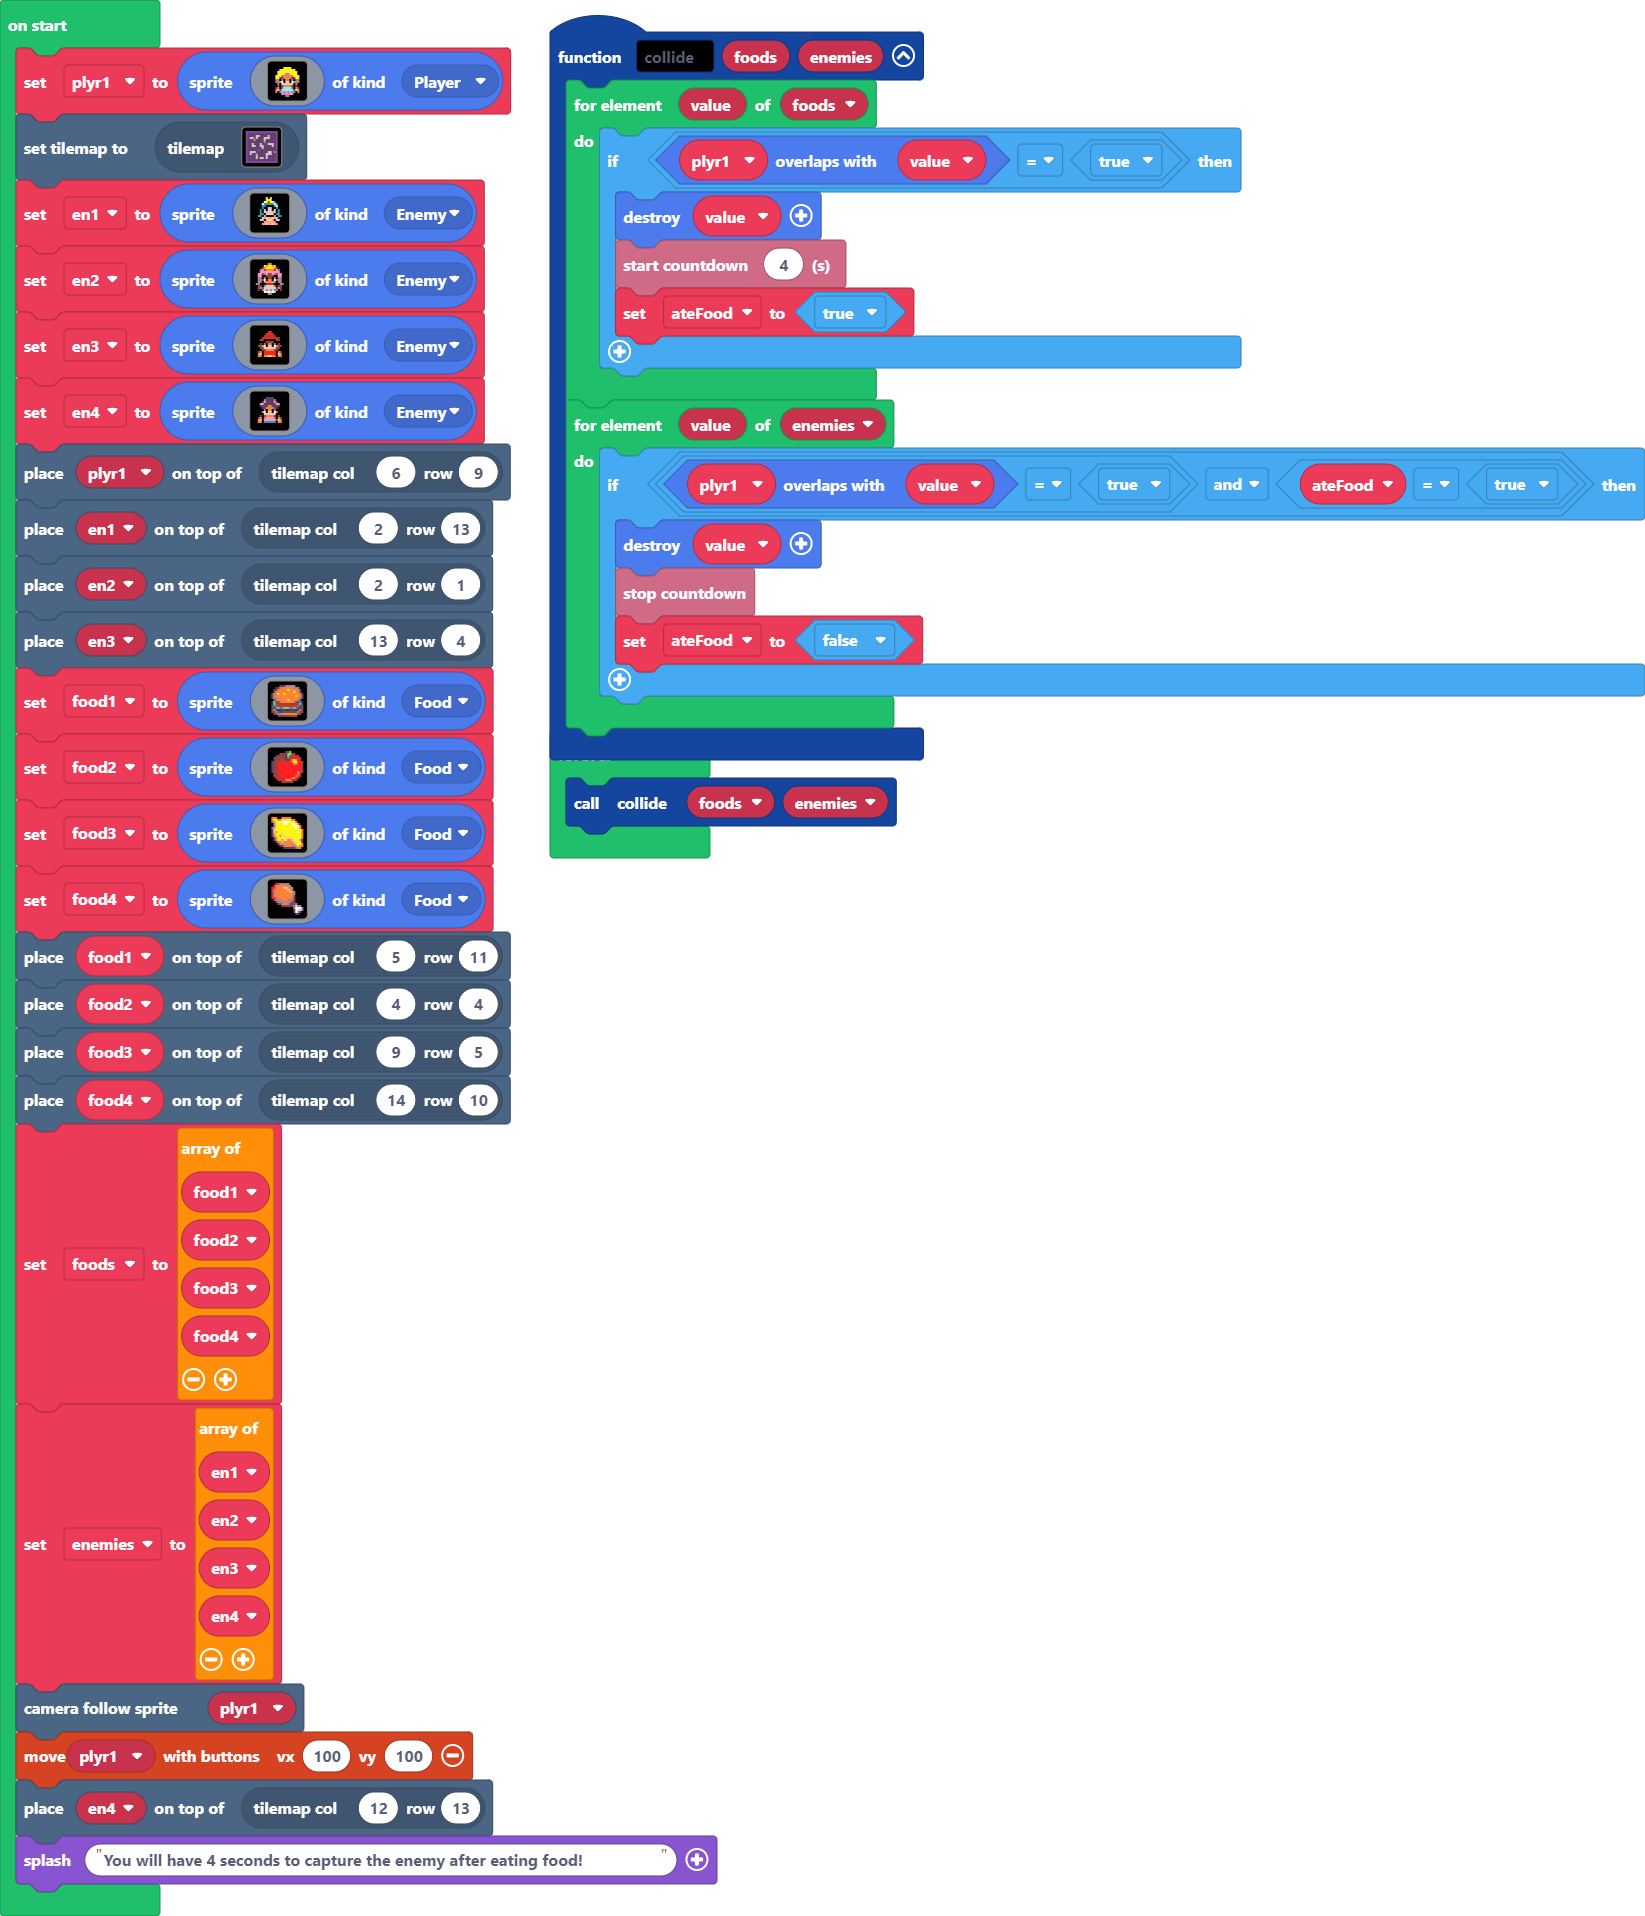
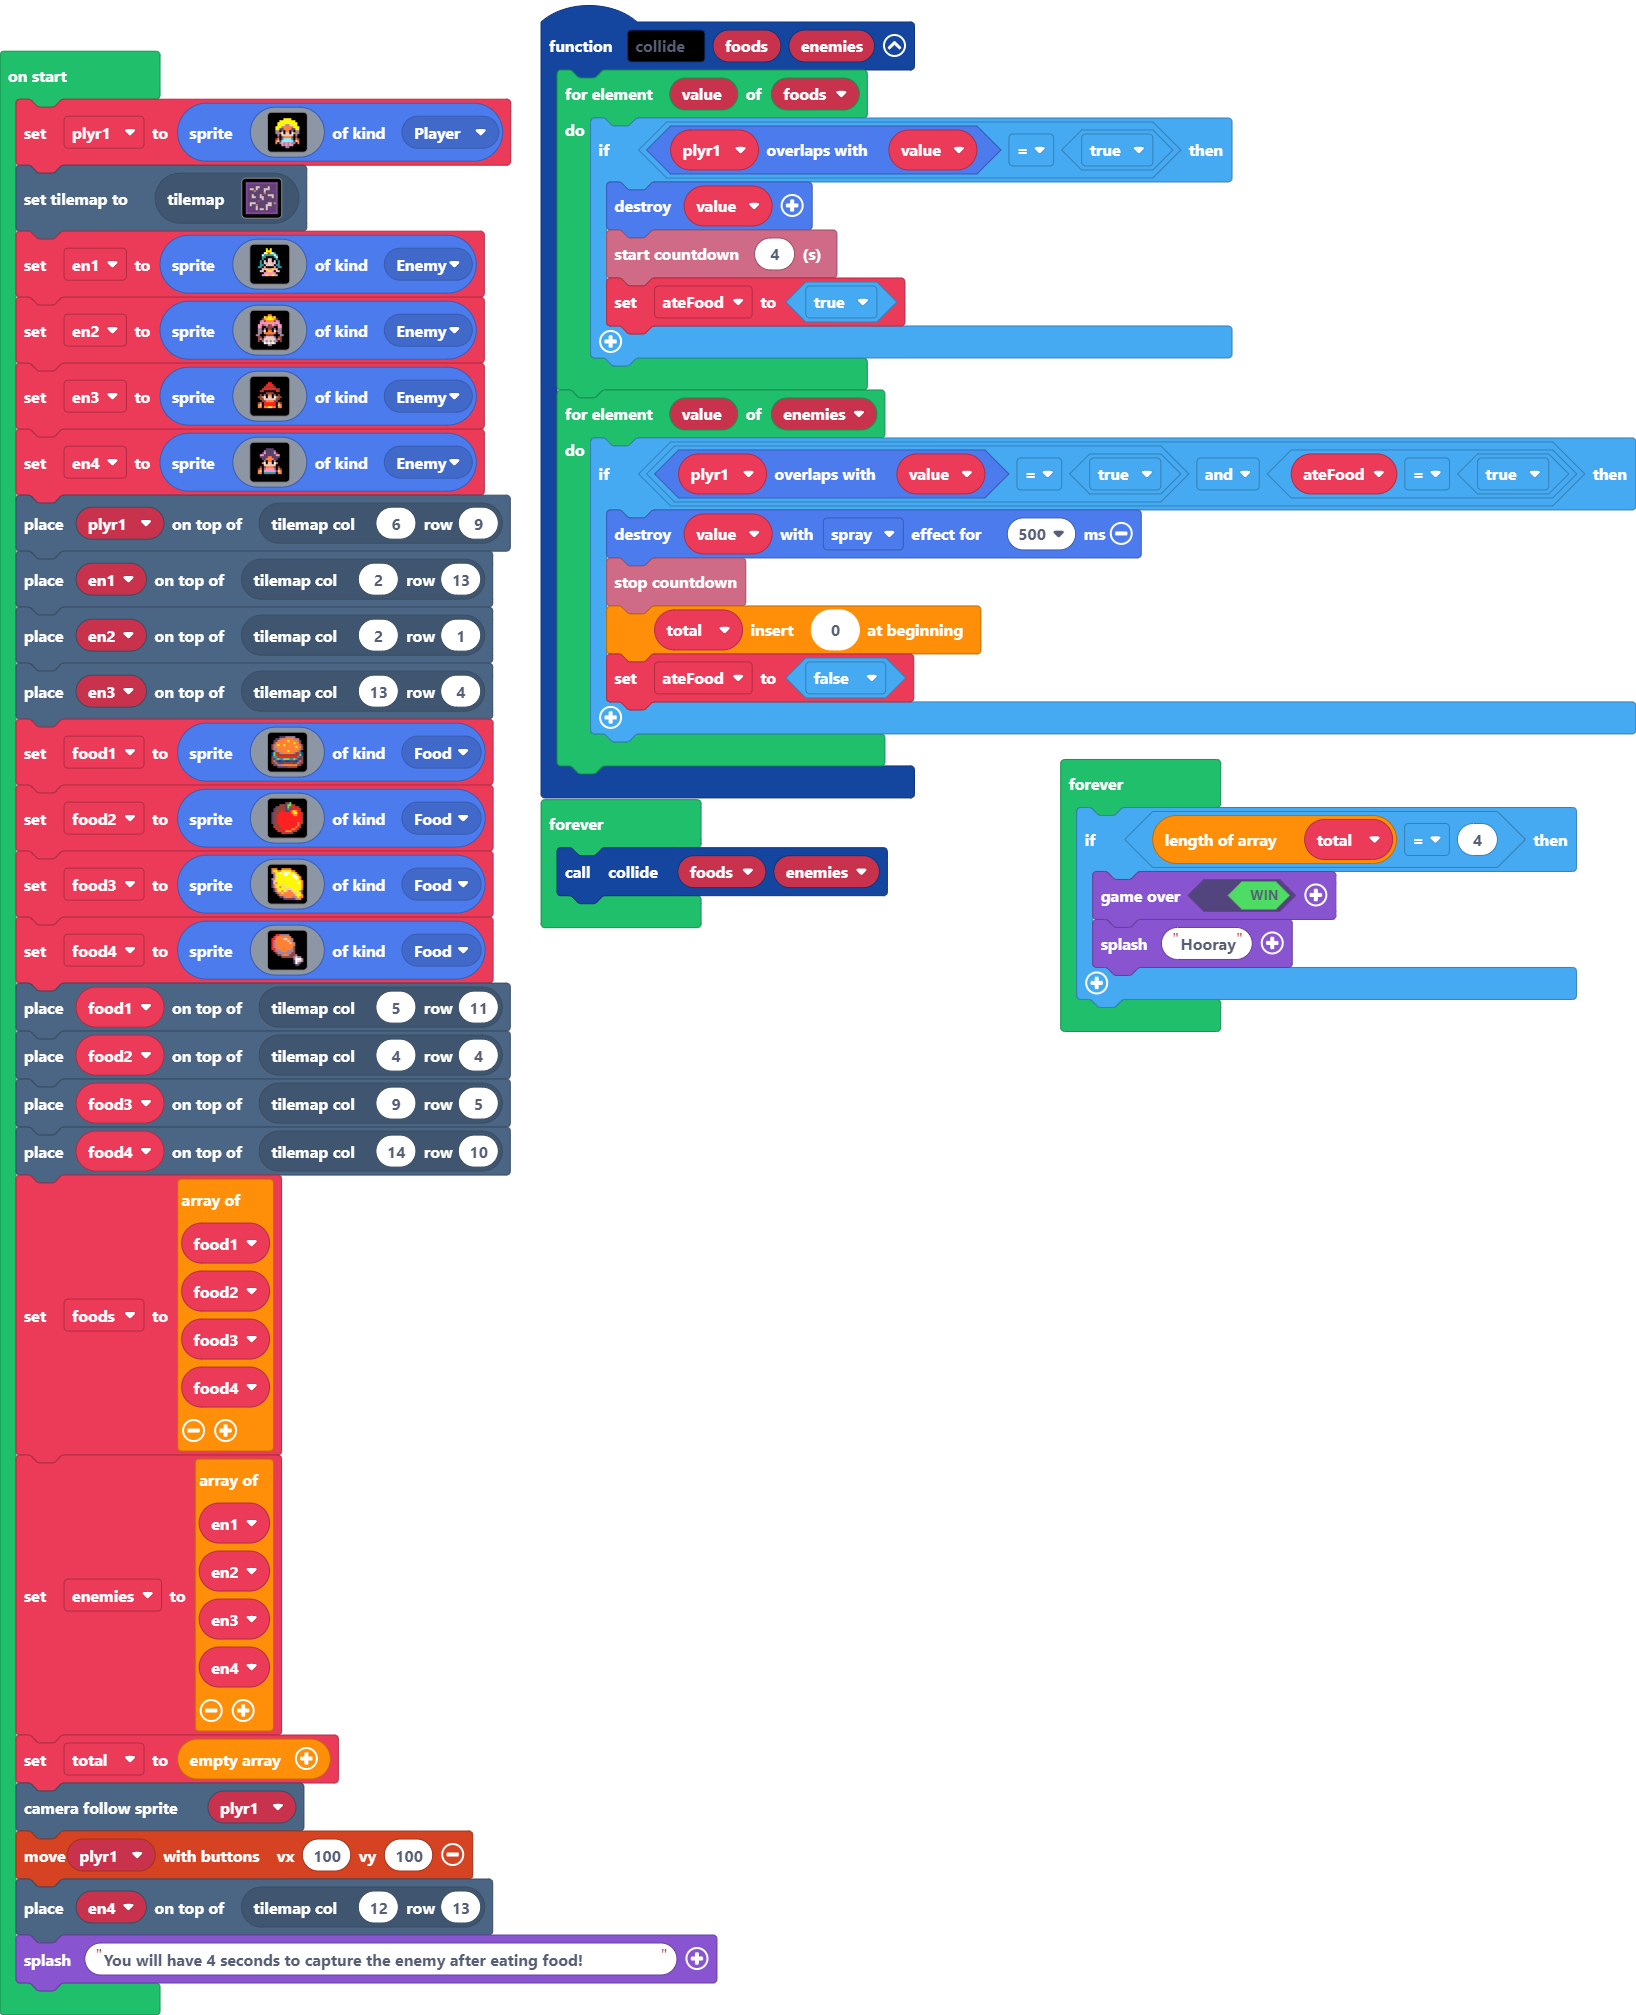
game winning piece

Changed region(s): [[0.0, 0.0, 1.0, 0.9854]]

diff --git a/main.ts b/main.ts
@@ -11,13 +11,15 @@ function collide (foods: any[], enemies: any[]) {
     }
     for (let value of enemies) {
         if (plyr1.overlapsWith(value) == true && ateFood == true) {
-            value.destroy()
+            value.destroy(effects.spray, 500)
             info.stopCountdown()
+            total.unshift(0)
             ateFood = false
         }
     }
 }
 let ateFood = false
+let total: number[] = []
 let enemies: Sprite[] = []
 let foods: Sprite[] = []
 let plyr1: Sprite = null
@@ -204,10 +206,17 @@ en2,
 en3,
 en4
 ]
+total = []
 scene.cameraFollowSprite(plyr1)
 controller.moveSprite(plyr1, 100, 100)
 tiles.placeOnTile(en4, tiles.getTileLocation(12, 13))
 game.splash("You will have 4 seconds to capture the enemy after eating food!")
+forever(function () {
+    if (total.length == 4) {
+        game.over(true)
+        game.splash("Hooray")
+    }
+})
 forever(function () {
     collide(foods, enemies)
 })
